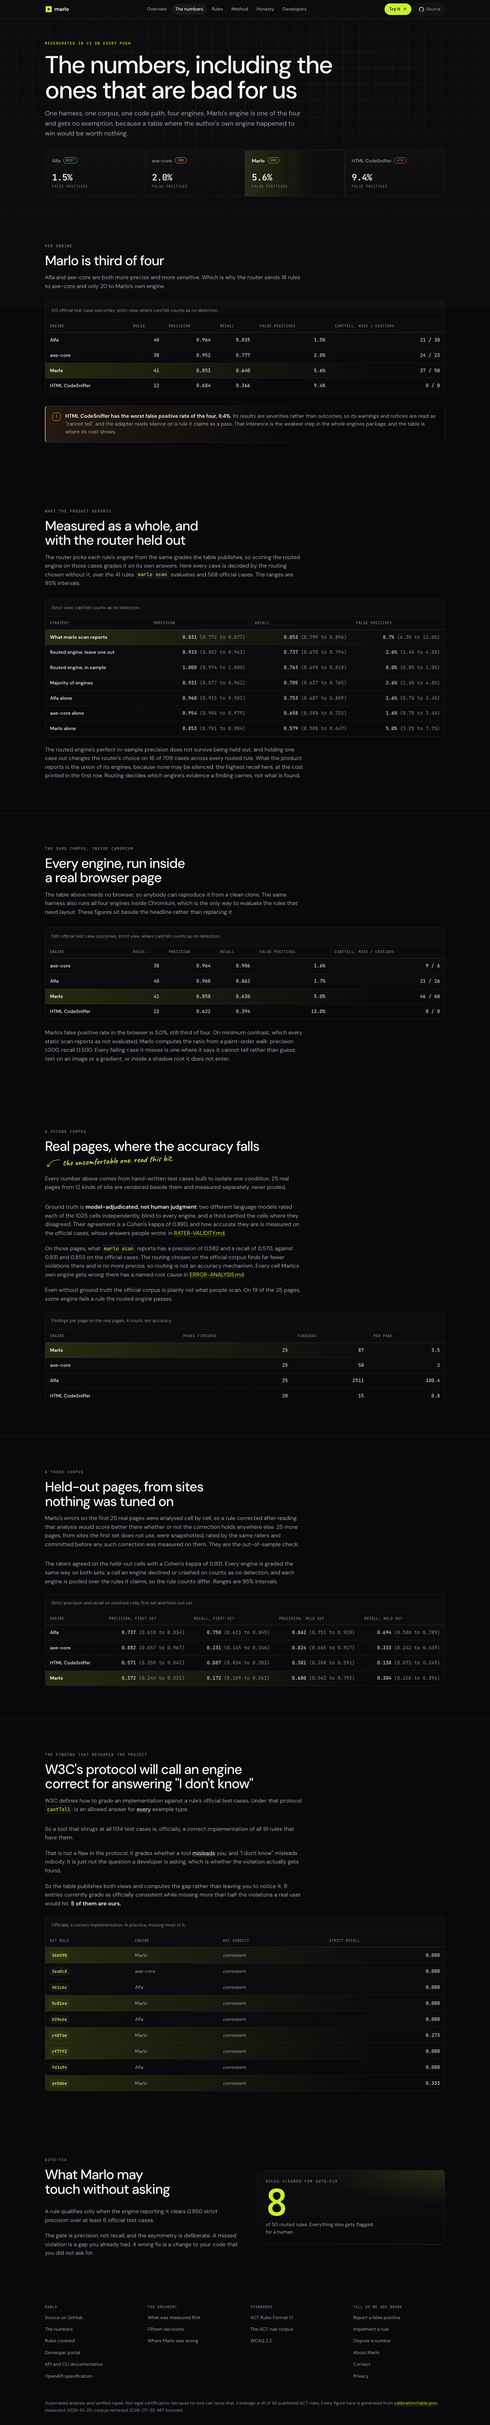
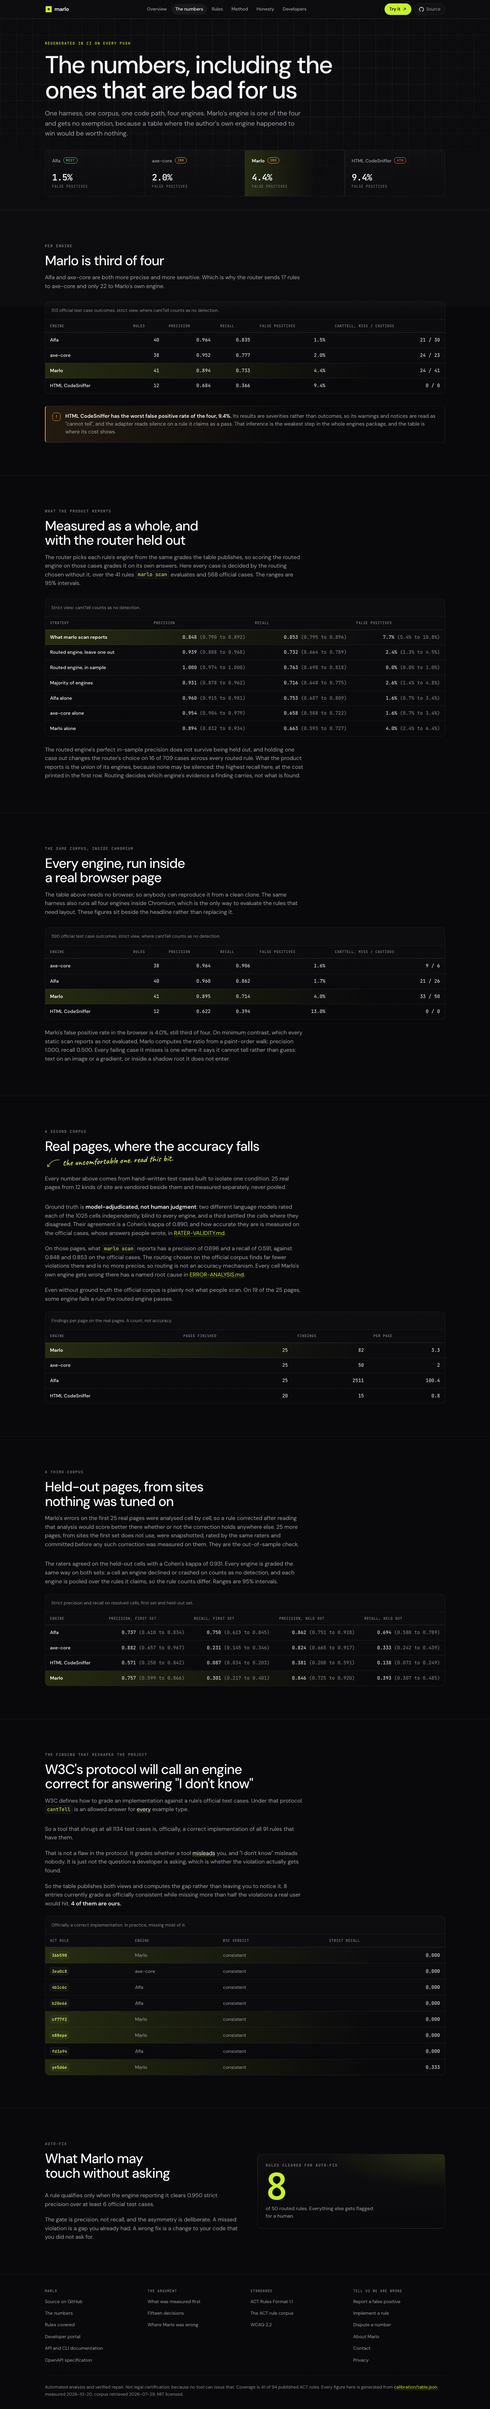
docs: publish the held-out result, and record what the fixes exposed
README.md reports the corrected figures, the in-sample and held-out gains
side by side, and a sample output regenerated from the scan. HONESTY.md
gains three entries: the README's showcase disagreement was Marlo's own
false positive, the real-page figures had left out the cells Marlo
declined, and the adjudication pre-screen was narrower than three rules.
The honesty page carries the first two, and the changelog records the
accuracy changes.

diff --git a/README.md b/README.md
@@ -1,17 +1,17 @@
 # Marlo
 
-**Our false positive rate is 8.7%. Here is how we measured it, and why we are printing it.**
+**Our false positive rate is 7.7%. Here is how we measured it, and why we are printing it.**
 
 [![CI](https://github.com/KarthikSubramanian07/Marlo/actions/workflows/ci.yml/badge.svg)](https://github.com/KarthikSubramanian07/Marlo/actions/workflows/ci.yml)
 [![coverage: 41 of 94 ACT rules](https://img.shields.io/badge/ACT_rules-41_of_94-c9f227?labelColor=0a0c09)](calibration/README.md)
-[![false positive rate: 8.7%](https://img.shields.io/badge/false_positives-8.7%25-ff6b5e?labelColor=0a0c09)](calibration/ANALYSIS.md)
+[![false positive rate: 7.7%](https://img.shields.io/badge/false_positives-7.7%25-ff6b5e?labelColor=0a0c09)](calibration/ANALYSIS.md)
 [![licence: MIT](https://img.shields.io/badge/licence-MIT-9aa38f?labelColor=0a0c09)](LICENSE)
 
 Every accessibility tool claims to be accurate. Not one of them will tell you how often it is wrong.
 
 Marlo will. It checks pages against the [official W3C ACT rule corpus](https://act-rules.github.io), then measures itself against that same corpus and commits the result to this repository. The numbers are regenerated in CI on every push. When one moves and nobody said why, the build fails.
 
-That figure is what `marlo scan` reports, measured as a whole over the 41 rules it evaluates. Until recently this line printed 5.6%, which is the rate of Marlo's own rule engine, one component of the product. The product reports a failure whenever any of its four engines does, and that costs precision. [HONESTY.md entry 17](HONESTY.md#17-the-front-page-measured-a-component-and-the-routing-was-graded-on-its-own-answers).
+That figure is what `marlo scan` reports, measured as a whole over the 41 rules it evaluates. Until recently this line printed the rate of Marlo's own rule engine, now 4.4%, one component of the product. The product reports a failure whenever any of its four engines does, and that costs precision. [HONESTY.md entry 17](HONESTY.md#17-the-front-page-measured-a-component-and-the-routing-was-graded-on-its-own-answers).
 
 **[trymarlo.pages.dev](https://trymarlo.pages.dev)** · [try it in your browser](https://trymarlo.pages.dev/try/) · [the numbers](calibration/README.md) · [where Marlo was wrong](HONESTY.md)
 
@@ -27,10 +27,10 @@ Four engines, 513 official test case outcomes, one code path, no exemptions.
 | ---------------- | ------ | --------- | --------- | --------------- |
 | Alfa             | 40     | 0.964     | 0.835     | **1.5%**        |
 | axe-core         | 38     | 0.952     | 0.777     | 2.0%            |
-| **Marlo**        | **41** | **0.853** | **0.640** | **5.6%**        |
+| **Marlo**        | **41** | **0.894** | **0.733** | **4.4%**        |
 | HTML CodeSniffer | 12     | 0.684     | 0.366     | 9.4%            |
 
-Marlo is third of four. Alfa and axe-core are both more precise and more sensitive, and the router sends 18 rules to axe-core against 20 to Marlo's own engine.
+Marlo is third of four. Alfa and axe-core are both more precise and more sensitive, and the router sends 17 rules to axe-core against 22 to Marlo's own engine.
 
 Nobody edited that. Marlo's engine goes through the same harness, on the same corpus, with no special case, because a table where the author's own engine happened to win would be worth exactly nothing. That is [D-008](DECISIONS.md#d-008), and it is the reason to believe any other number here.
 
@@ -40,17 +40,17 @@ The table grades each engine on each rule. The router picks an engine per rule f
 
 | Over what marlo scan evaluates | Precision              | Recall                 | False positives    |
 | ------------------------------ | ---------------------- | ---------------------- | ------------------ |
-| What marlo scan reports        | 0.831 (0.772 to 0.877) | 0.853 (0.795 to 0.896) | 8.7% (6.3 to 12.0) |
-| Routed engine, leave one out   | 0.933 (0.882 to 0.963) | 0.737 (0.670 to 0.794) | 2.6% (1.4 to 4.8)  |
+| What marlo scan reports        | 0.848 (0.790 to 0.892) | 0.853 (0.795 to 0.896) | 7.7% (5.4 to 10.8) |
+| Routed engine, leave one out   | 0.939 (0.888 to 0.968) | 0.732 (0.664 to 0.789) | 2.4% (1.3 to 4.5)  |
 | Routed engine, in sample       | 1.000 (0.974 to 1.000) | 0.763 (0.698 to 0.818) | 0.0% (0.0 to 1.0)  |
-| Majority of engines            | 0.931 (0.877 to 0.962) | 0.705 (0.637 to 0.765) | 2.6% (1.4 to 4.8)  |
+| Majority of engines            | 0.931 (0.878 to 0.962) | 0.716 (0.648 to 0.775) | 2.6% (1.4 to 4.8)  |
 | Alfa alone                     | 0.960 (0.915 to 0.981) | 0.753 (0.687 to 0.809) | 1.6% (0.7 to 3.4)  |
 | axe-core alone                 | 0.954 (0.904 to 0.979) | 0.658 (0.588 to 0.722) | 1.6% (0.7 to 3.4)  |
-| Marlo alone                    | 0.853 (0.781 to 0.904) | 0.579 (0.508 to 0.647) | 5.0% (3.2 to 7.7)  |
+| Marlo alone                    | 0.894 (0.832 to 0.934) | 0.663 (0.593 to 0.727) | 4.0% (2.4 to 6.4)  |
 
 Three things this says, and none of them flatters the design.
 
-**The routed engine's perfect precision was an artifact.** Held out, it falls to 0.933, and holding a single case out changes the router's choice on 16 of 709 cases across every routed rule. Routed this way, it scores below running Alfa everywhere on both precision and recall, though the intervals overlap.
+**The routed engine's perfect precision was an artifact.** Held out, it falls to 0.939, and holding a single case out changes the router's choice on 16 of 709 cases across every routed rule. Routed this way, it scores below running Alfa everywhere on both precision and recall, though the intervals overlap.
 
 **The product detects the union.** Because no engine may be silenced, a rule fails whenever any engine fails it, which gives the highest recall here and the highest false positive rate apart from HTML CodeSniffer alone. That trade is deliberate: a violation one engine can see is a violation, and the cost of reporting it is printed above rather than hidden.
 
@@ -66,7 +66,7 @@ Under Chromium, 590 test case outcomes are graded, because the layout cases beco
 | ------------------- | ------ | --------- | --------- | --------------- |
 | axe-core            | 38     | 0.964     | 0.906     | 1.6%            |
 | Alfa                | 40     | 0.960     | 0.862     | 1.7%            |
-| **Marlo**           | **41** | **0.858** | **0.630** | **5.0%**        |
+| **Marlo**           | **41** | **0.895** | **0.714** | **4.0%**        |
 | HTML CodeSniffer    | 12     | 0.622     | 0.394     | 13.0%           |
 
 Still third of four. On minimum contrast, which every scan before this reported as not evaluated, Marlo computes the ratio from a paint-order walk and has not flagged a passing case, and every failing case it misses is one where it says it cannot tell rather than guess: text on an image or a gradient, or inside a shadow root it does not enter.
@@ -81,28 +81,31 @@ On real pages the picture is much worse than on the official cases:
 
 | Real pages, 1023 resolved cells | Precision | Recall    | False positives |
 | ------------------------------- | --------- | --------- | --------------- |
-| **What `marlo scan` reports**   | **0.582** | **0.570** | **4.1%**        |
+| **What `marlo scan` reports**   | **0.696** | **0.591** | **2.6%**        |
 | Alfa alone                      | 0.737     | 0.452     | 1.6%            |
 | axe-core alone                  | 0.882     | 0.161     | 0.2%            |
-| Routed engine                   | 0.528     | 0.204     | 1.8%            |
-| Marlo's own engine alone        | 0.372     | 0.172     | 2.9%            |
+| Routed engine                   | 0.615     | 0.258     | 1.6%            |
+| Marlo's own engine alone        | 0.757     | 0.301     | 1.0%            |
 
-Precision falls from 0.831 to 0.582 and recall from 0.853 to 0.570. The routing chosen on the official corpus, scored on pages it never saw, finds a third as many violations as the union and is no more precise, which settles the open question above: routing is not an accuracy mechanism. And Marlo's own engine, third of four on the official cases, is the least precise engine on real ones. Intervals and the full table are in [calibration/ANALYSIS.md](calibration/ANALYSIS.md). Beyond accuracy, on 19 of the 25 pages some engine reports a failure for a rule the routed engine passes, and engines that agree closely on the official cases report findings at rates two orders of magnitude apart.
+Precision falls from 0.848 to 0.696 and recall from 0.853 to 0.591. The routing chosen on the official corpus, scored on pages it never saw, finds under half as many violations as the union and is less precise, which settles the open question above: routing is not an accuracy mechanism. Marlo's own engine was the least precise engine on these pages, at 0.372, until the rule defects the error analysis found were fixed. It is now at 0.757, but that figure is in-sample, because the defects were found on these very pages; the held-out pages below are the measurement that counts. Intervals and the full table are in [calibration/ANALYSIS.md](calibration/ANALYSIS.md). Beyond accuracy, on 19 of the 25 pages some engine reports a failure for a rule the routed engine passes, and engines that agree closely on the official cases report findings at rates two orders of magnitude apart.
 
-Why Marlo's own engine does so badly is written down cell by cell in [calibration/ERROR-ANALYSIS.md](calibration/ERROR-ANALYSIS.md). It makes 27 false positives and 43 false negatives on rules it evaluates, and each has a named root cause. 17 of the false positives are rule logic that contradicts the ACT rule text, 8 of them from one defect: failing an ID reference whose target is missing, which the rule explicitly allows. 24 of the false negatives are abstentions, mostly on bypass rules that turn on what repeats across a site. Five rules with real-page errors score perfectly on their official test cases, because no case exercises what fails. Rerun in headless Chromium, the engine's precision is 0.733 and its recall 0.473. Fixing rules on these pages and measuring them here again would make the pages training data, so the fixes are measured on a second set of pages instead.
+Why Marlo's own engine did so badly is written down cell by cell in [calibration/ERROR-ANALYSIS.md](calibration/ERROR-ANALYSIS.md). Before the fixes it made 27 false positives and 43 false negatives on rules it evaluates, 17 of the false positives from rule logic that contradicted the ACT rule text, 8 of them from one defect: failing an ID reference whose target is missing, which the rule explicitly allows. Eleven rules were corrected against the pinned rule text, never toward the raters' labels, and one proposed fix was refused because the rule's own examples contradict it. Now it makes 9 false positives and 31 false negatives. None of the false positives is rule logic: 8 are elements a stylesheet hides, which the static renderer cannot see, and the ninth is a cell whose ground truth the rule text disputes. All 31 false negatives are abstentions, mostly on bypass rules that turn on what repeats across a site and on whether a hidden image is decorative. Three rules with real-page errors score perfectly on their official test cases, because no case exercises what fails. Rerun in headless Chromium, the engine's precision is 0.966 and its recall 0.602. Fixing rules on these pages and measuring them here again would make the pages training data, so the fixes are measured on a second set of pages instead.
 
 ### A third corpus, held out
 
 `corpus/heldout` vendors 25 more pages from 12 kinds of site, none from a site `corpus/real` uses (the verifier refuses one that is), snapshotted and rated the same way. Their ground truth was committed, and pushed, before any rule change made after the error analysis was measured on them, so they say how well a correction generalises rather than how well it fits the pages it was written against. The same two raters rated every held-out cell independently and the same resolver decided where they differed: agreement was 96.5% over the 750 cells that needed a judgment, a kappa of 0.931, with 26 cells left to the resolver.
 
-Every engine on the held-out cells, graded strictly and pooled over the rules it claims, with the rules as they stood when that ground truth was committed:
+Every engine on the held-out cells, graded strictly and pooled over the rules it claims. Marlo's figure before the fixes is the one this table published when the ground truth was committed, with the rules as they stood:
 
 | Held-out pages, every engine | Precision | Recall |
 | ---------------------------- | --------- | ------ |
 | Alfa                         | 0.862     | 0.694  |
 | axe-core                     | 0.824     | 0.333  |
 | HTML CodeSniffer             | 0.381     | 0.138  |
-| Marlo's own engine           | 0.680     | 0.304  |
+| Marlo's own engine           | 0.846     | 0.393  |
+| Marlo, before the fixes      | 0.680     | 0.304  |
+
+The fixes held. Written against `corpus/real`, they raised Marlo's precision there from 0.372 to 0.757; on pages from sites nothing was tuned on they raised it from 0.680 to 0.846 and recall from 0.304 to 0.393, and halved its false positives from 16 to 8. Marlo is now second of four on both held-out precision and recall, behind Alfa on each. The gap between the two sets is the size of the in-sample flattery, measured rather than assumed.
 
 These pool each engine over its own rules, so they are not the per-strategy figures in the table above, and every cell an engine declined or crashed on counts as a miss. The intervals are in [calibration/README.md](calibration/README.md#held-out-real-pages).
 
@@ -132,13 +135,14 @@ apps/demo/checkout.html
                 09o5cg afw4f7
                 This is not a pass. Use --renderer browser to evaluate them.
 
-  ▲▲▲ critical e086e5  Form field has non-empty accessible name
-      WCAG 1.3.1, 2.5.3, 4.1.2  axe-core precision 1.00 over 17 official test cases
-      input (not located in source)
-        INVARIANT marlo failed this element and the routed engine did not report it: axe-core says passed, alfa says passed.
-        The field has no accessible name, so it is announced only by its type. A placeholder ("Email") is not a label: it disappears on focus and is not reliably announced.
-      div[role="slider"] (not located in source)
-        ARIA input fields must have an accessible name
+  ▲▲▲ critical c487ae  Link has non-empty accessible name
+      WCAG 1.1.1, 2.4.4, 2.4.9, 4.1.2  marlo precision 1.00 over 28 official test cases
+      disagreement: htmlcs says passed
+      img[src$="product-8842.jpg"] (not located in source)
+        INVARIANT axe-core failed this element and the routed engine did not report it.
+        Images must have alternative text
+      a (not located in source)
+        This link has no accessible name. A screen reader announces "link" with no destination, which is unusable in a links list.
 
   ▲▲  serious  afw4f7  Text has minimum contrast
       WCAG 1.4.3, 1.4.6  alfa precision 0.83 over 28 official test cases
@@ -158,9 +162,9 @@ Three things there that most scanners will not show you.
 
 **What it could not check, before what it found.** Two rules need CSS layout, the default renderer has none, and it says so above the findings rather than in a footnote. "No contrast problems were found" and "contrast was not examined" are different sentences. Run it with `--renderer browser` and both rules are evaluated.
 
-**Where the confidence came from.** `axe-core precision 1.00 over 17 official test cases`. Go and disagree with it.
+**Where the confidence came from.** `marlo precision 1.00 over 28 official test cases`. Go and disagree with it.
 
-**A disagreement between engines, on the record, down to the element.** The calibration table routes `e086e5` to axe-core, which fails five other form controls on this page and passes the email input whose only label is a placeholder. Marlo's own rule fails it. The routed engine decides who speaks for the rule, and it still may not silence a peer about a single element, so that field is listed first, marked, with the engines that disagreed named. On contrast the routed engine reported nothing at all, so the whole rule was forced through on Alfa's word.
+**A disagreement between engines, on the record, down to the element.** The calibration table routes `c487ae` to Marlo's own rule, which fails the product link because it has no accessible name. axe-core fails the image inside that link as well, and the routed engine did not report that element, so it is listed first and marked: the routed engine decides who speaks for a rule, and it still may not silence a peer about a single element. On contrast the routed engine reported nothing at all, so the whole rule was forced through on Alfa's word. (This paragraph used to show an email field labelled only by a placeholder, where Marlo failed what axe-core and Alfa passed. They were right and Marlo was wrong; [HONESTY.md entry 18](HONESTY.md#18-the-readmes-showcase-of-a-disagreement-between-engines-was-marlos-own-false-positive).)
 
 Severity is a text mark, never colour on its own, so the output survives a pipe, a CI log, and a reader who cannot tell red from amber.
 
@@ -221,7 +225,7 @@ The two accented boxes are the seams, and the thick one is the rule that can ove
 
 There was a project that integrated ten engines and around a thousand rules. Published at SIGACCESS, adopted inside a Fortune 50 company, reached almost nobody. The research it cites explains why: accessibility engines find largely _disjoint_ issue sets with poor agreement, and handing somebody ten engines' raw output gives them a triage problem, which is worse than the detection problem they started with.
 
-Marlo's detection is still the union of its engines, because the rule below forbids silencing any of them, and the measured cost of that is the 8.7% at the top of this page. What it does instead of piling is deduplicate: the calibration table decides which engine reports each rule, a failure is listed once against the element it names, and every finding carries the engine that reported it, the engines that agreed or dissented, and that engine's measured accuracy on the rule. [D-003](DECISIONS.md#d-003).
+Marlo's detection is still the union of its engines, because the rule below forbids silencing any of them, and the measured cost of that is the 7.7% at the top of this page. What it does instead of piling is deduplicate: the calibration table decides which engine reports each rule, a failure is listed once against the element it names, and every finding carries the engine that reported it, the engines that agreed or dissented, and that engine's measured accuracy on the rule. [D-003](DECISIONS.md#d-003).
 
 **Routing decides who speaks. It does not let anyone silence a peer.** If any engine reports a failure, Marlo may not report clean. It can dissent, on the record, with the disagreeing engine named.
 
@@ -272,21 +276,20 @@ So a tool that answers "cannot tell" to all 1134 test cases is, officially, a co
 
 That is not a flaw in the protocol. It grades whether a tool _misleads_ you, and "I don't know" misleads nobody. It is simply not the question a developer is asking, which is whether the violation will actually be found.
 
-So the calibration table publishes **both** views and computes the gap. Nine entries currently grade as officially `consistent` while missing more than half the violations a real user would hit:
+So the calibration table publishes **both** views and computes the gap. Eight entries currently grade as officially `consistent` while missing more than half the violations a real user would hit:
 
 | ACT rule | Engine    | W3C verdict | Strict recall |
 | -------- | --------- | ----------- | ------------- |
 | `36b590` | **Marlo** | consistent  | 0.000         |
-| `5c01ea` | **Marlo** | consistent  | 0.000         |
-| `c487ae` | **Marlo** | consistent  | 0.273         |
 | `cf77f2` | **Marlo** | consistent  | 0.000         |
+| `e88epe` | **Marlo** | consistent  | 0.000         |
 | `ye5d6e` | **Marlo** | consistent  | 0.333         |
 | `3ea0c8` | axe-core  | consistent  | 0.000         |
 | `4b1c6c` | Alfa      | consistent  | 0.000         |
 | `b20e66` | Alfa      | consistent  | 0.000         |
 | `fd3a94` | Alfa      | consistent  | 0.000         |
 
-Five of the nine are ours. Under the protocol W3C publishes implementation reports against, Marlo is a **correct implementation** of `5c01ea` while detecting nothing at all. [D-004](DECISIONS.md#d-004).
+Four of the eight are ours. Under the protocol W3C publishes implementation reports against, Marlo is a **correct implementation** of `36b590` while detecting nothing at all. Two of ours left this list when the rules behind them were fixed (`5c01ea` and `c487ae` now find what they used to miss), and one joined it: `e88epe` now applies to inline `svg` images as the rule says, so on the failing cases it answers `cantTell` where it used to answer `inapplicable`. That turned it officially `consistent` without finding one more violation, because whether an image is decorative is a judgment it does not pretend to make. [D-004](DECISIONS.md#d-004).
 
 ---
 

diff --git a/HONESTY.md b/HONESTY.md
@@ -304,7 +304,47 @@ The routing figure had a second problem. The router chooses each rule's engine f
 
 ---
 
-## 18. Standing limitations
+## 18. The README's showcase of a disagreement between engines was Marlo's own false positive
+
+**What it claimed.** The README's sample output led with an email input on the demo checkout page whose only label was a placeholder. Marlo's rule failed it, axe-core and Alfa passed it, and the README presented the field as the one-directional invariant at work: a peer may not be silenced about a single element, so the field was listed first with the engines that disagreed named.
+
+**What was true.** HTML-AAM lets a placeholder supply an accessible name when nothing else does, and the ACT rule `e086e5` asks only for a non-empty name; its own passed examples include a field named by its placeholder. axe-core and Alfa were right. The invariant did what it should, but the example the README chose to show it off was a defect in Marlo's own rule.
+
+**What reported success.** Everything. The golden files recorded the false positive faithfully, the site's recorded scan matched them, and the demo's `expected.json` listed the field as a failure, so every test agreed with every other test about the wrong answer.
+
+**How it was found.** The error analysis on the real pages listed a placeholder-named field among Marlo's false positives. Correcting the rule made the demo field pass, and the README's story went with it.
+
+**What changed.** The rule names a field from its placeholder, as HTML-AAM does. The demo field now has no accessible name at all, which is the failure the comment always meant to show, and the README's sample output and the site's recorded scan were regenerated from the scan rather than edited.
+
+---
+
+## 19. The real-page figures left out the cells Marlo declined, and the error analysis said they did not
+
+**What it claimed.** `calibration/ERROR-ANALYSIS.md` said the failures on rules Marlo cannot evaluate without layout "count against its recall in the calibration table", and that its own static row reproduced the table exactly.
+
+**What was true.** The table left those cells out. A cell an engine declined as unsupported, or crashed on, was dropped from that engine's strict figures, as the ACT harness does for documents the renderer cannot represent. On real pages that is not symmetric: Marlo declines the layout rules under the static renderer while the three peers answer every page, so Marlo was graded on a smaller and easier set. Its real-page recall was published as 0.27. Counting its declined cells as misses, as the error analysis did, it was 0.172.
+
+**What reported success.** The error analysis's own consistency check, which compared the two rule by rule after filtering out exactly the cells in question.
+
+**What changed.** On the real pages, a declined or crashed cell is graded as no detection for every engine: a miss on a failed cell, harmless on any other. Marlo's real-page recall is published as 0.172, the error analysis reproduces the table with nothing filtered, and HTML CodeSniffer's recall fell too, for its errored pages.
+
+---
+
+## 20. The adjudication pre-screen was narrower than three of the rules it screened
+
+**What it claimed.** That a cell is pre-filled `inapplicable` only when nothing the rule applies to occurs in the page source.
+
+**What was true.** The pattern for `bc4a75` looked for a `role` attribute, but the rule applies to implicit roles too, so a page whose lists and tables carried no `role` attribute was pre-filled inapplicable. The pattern for `46ca7f` missed `img alt=""`, which the ACT glossary counts as marked as decorative, and `36b590` omitted two roles. On `corpus/real` ten cells were pre-filled wrongly; on eight the raters had overridden the suggestion or disagreed and been resolved correctly, and on two both had left it, so `inapplicable` was ground truth on two cells where the right answer was `passed`.
+
+**What reported success.** A test that the pre-screen table covers exactly the implemented rules, which it did.
+
+**How it was found.** Raters on the held-out pages kept overriding the same pre-filled cells and saying why.
+
+**What changed.** The patterns, and a test listing, per rule, markup written from the rule text that the pre-screen must never mark inapplicable, implicit roles included. All ten cells on `corpus/real` and the seventeen on `corpus/heldout` were rated again by both raters with no pre-screen hint, as `corpus/real/adjudication/PROTOCOL.md` records.
+
+---
+
+## 21. Standing limitations
 
 Not defects. Things Marlo cannot currently do, written here so their absence is a decision rather than an omission.
 
@@ -316,7 +356,7 @@ Not defects. Things Marlo cannot currently do, written here so their absence is 
 
 **The published headline is measured on the static renderer.** It needs no browser, so anybody can reproduce it from a clean clone, and the browser table sits beside it as `calibration/browser.json` rather than replacing it. The browser table records "a dirty tree" in place of a commit, because Playwright has to be added to the workspace manifest for the run and is deliberately not a dependency. Two rules, the meta refresh pair, navigate the page away during evaluation in a real browser, and those cases are recorded as errors rather than graded.
 
-**Real-page ground truth comes from language models, not people.** Every cell of `corpus/real` is resolved, by two models rating independently and a third settling their 40 disagreements, because two independent people were never available and waiting for them left the most important measurement permanently open. Every figure resting on it is labelled model-adjudicated, and the raters are graded on the official cases, whose answers people wrote: the adjudicated labels match on 95.8% of 594. That is a floor on their error on real pages, not an estimate of it, and a human rating of a sample is the test that would confirm or withdraw the real-page figures. What those figures showed was not flattering: on real pages what the scan reports had a precision of 0.582 and a recall of 0.570, and Marlo's own engine was the least precise of the four, at 0.372. The rule defects behind most of that were then fixed, and on the same pages the scan now reports 0.696 and 0.591, and Marlo's engine 0.757 and 0.301. Those later figures are in-sample, because the defects were found on these pages, so they say the fixes fit these pages and not yet that they generalise. A second set of real pages, rated before the fixes are measured on it, is the measurement that decides.
+**Real-page ground truth comes from language models, not people.** Every cell of `corpus/real` and `corpus/heldout` is resolved, by two models rating independently and a third settling their 38 and 26 disagreements, because two independent people were never available and waiting for them left the most important measurement permanently open. Every figure resting on it is labelled model-adjudicated, and the raters are graded on the official cases, whose answers people wrote: the adjudicated labels match on 95.8% of 594. That is a floor on their error on real pages, not an estimate of it, and a human rating of a sample is the test that would confirm or withdraw the real-page figures. What those figures showed was not flattering: on real pages what the scan reports had a precision of 0.582 and a recall of 0.570, and Marlo's own engine was the least precise of the four, at 0.372. The rule defects behind most of that were then fixed, and on the same pages the scan now reports 0.696 and 0.591, and Marlo's engine 0.757 and 0.301. Those later figures are in-sample, because the defects were found on these pages. The held-out pages, from other sites and rated before the fixes were measured on them, are the measurement that decides, and there the fixes held: Marlo's engine went from 0.680 to 0.846 in precision and from 0.304 to 0.393 in recall. Both sets rest on the same model raters, so a human rating of a sample would test the held-out figures too.
 
 **Element identity rests on the evidence engines supply.** Matching failures across engines uses the opening tag in each verdict's markup. Two engines that locate one defect at two different elements, other than the document itself, can still produce two findings, and a verdict whose evidence is not an element is never added, only reported at rule level.
 

diff --git a/CHANGELOG.md b/CHANGELOG.md
@@ -50,6 +50,11 @@ Nothing is published to a registry yet. There is no installable release, so ther
 
 ### Accuracy
 
+- Eleven of Marlo's rules corrected against the pinned ACT rule text, from the defects the real-page error analysis found: `6a7281` no longer fails an ID reference whose target is missing; `6cfa84` and `2ee8b8` leave out what is not rendered, hidden, inert or disabled; `e086e5` names a field from its placeholder as HTML-AAM does; `674b10` accepts DPUB-ARIA and Graphics ARIA roles; `4e8ab6` requires `aria-valuenow` only on a focusable separator; `5f99a7` holds attributes to ARIA 1.2's list; `bc4a75` checks implicit roles and owned roles as ARIA 1.2 lists them; `5c01ea` decides permitted attributes from the implicit role; `c487ae` names content from its images' text alternatives; `e88epe` applies to `svg` and `canvas`; `b40fd1` stops passing any main landmark. The abbreviation case in `2ee8b8` was not changed, because the rule's own examples contradict it.
+- On the official cases Marlo's static figures move from precision 0.853, recall 0.640 and a 5.6% false positive rate to 0.894, 0.733 and 4.4%, and what `marlo scan` reports from an 8.7% false positive rate to 7.7%. Two cases got worse, both where the vendored test cases are older than the pinned rule text: `6a7281` Failed Example 10 and `bc4a75` Passed Example 6.
+- On the held-out real pages, which no fix was written against, Marlo's precision moves from 0.680 to 0.846 and its recall from 0.304 to 0.393. On `corpus/real`, where the defects were found, the same fixes move precision from 0.372 to 0.757: in-sample, and published as such.
+- The demo checkout's email field had only a placeholder, and the README showed Marlo failing it as a disagreement between engines. The peers that passed it were right. The field now has no accessible name at all, and the sample output was regenerated. HONESTY.md entry 18.
+
 - First accuracy figures on real pages, model-adjudicated. What `marlo scan` reports: precision 0.582, recall 0.570, false positive rate 4.1%, against 0.831, 0.853 and 8.7% on the official cases. Marlo's own engine: precision 0.372, recall 0.172. The routing chosen on the official corpus, scored on these pages: precision 0.528, recall 0.204, below Alfa alone at 0.737 and 0.452.
 
 ### Fixed
